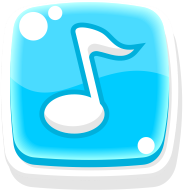
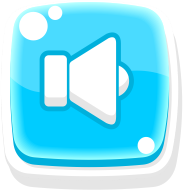
mute/unmute sound

diff --git a/src/scripts/scenes/pauseScene.ts b/src/scripts/scenes/pauseScene.ts
@@ -1,6 +1,9 @@
+import BackgroundParallax from '../ui/backgroundParallax'
 import { ButtonBig } from '../ui/buttonBig'
 import { ButtonSmall } from '../ui/buttonSmall'
-import { BUTTON, BUTTON_PREFIX, FONTS } from '../utils/constants'
+import { changeSoundState } from '../utils/audioUtil'
+import { BUTTON, BUTTON_PREFIX, BUTTON_PREFIX_EXTRA, FONTS } from '../utils/constants'
+import { isSoundEnabled, setSoundEnabled } from '../utils/fileStorage'
 
 export default class PauseScene extends Phaser.Scene {
   private config: PauseSceneConfig
@@ -16,6 +19,9 @@ export default class PauseScene extends Phaser.Scene {
   create() {
     const { width, height } = this.scale
     this.scene.bringToTop()
+
+    // TODO: blur the background on pause
+
     const frame = this.add.image(width * 0.5, height * 0.5, 'small-frame-window').setOrigin(0.5, 0.5)
 
     const textTitle = this.add
@@ -30,14 +36,30 @@ export default class PauseScene extends Phaser.Scene {
       onClick: this.config.onHome,
     }).setOrigin(0.5, 0.5)
 
-    new ButtonSmall(this, frame.x - frame.displayWidth * 0.5 + 300, frame.y - frame.displayHeight * 0.5 + 200, {
-      name: BUTTON.SOUND,
-      prefix: BUTTON_PREFIX.BLOCKED,
-      onClick: () => {
-        //TODO: implement toogle sound
-        console.log('sound click')
-      },
-    }).setOrigin(0.5, 0.5)
+    const soundEnabled = isSoundEnabled()
+    const soundButton = new ButtonSmall(
+      this,
+      frame.x - frame.displayWidth * 0.5 + 300,
+      frame.y - frame.displayHeight * 0.5 + 200,
+      {
+        name: BUTTON.SOUND,
+        prefix: soundEnabled ? BUTTON_PREFIX_EXTRA.INACTIVE : BUTTON_PREFIX.NORMAL,
+        onClick: () => {
+          const soundEnabled = isSoundEnabled()
+          const newSoundEnabled = !soundEnabled
+          setSoundEnabled(newSoundEnabled)
+          changeSoundState(this, newSoundEnabled)
+
+          if (newSoundEnabled) {
+            soundButton.changeTexture(BUTTON_PREFIX_EXTRA.INACTIVE)
+            this.sound.resumeAll()
+          } else {
+            soundButton.changeTexture(BUTTON_PREFIX.NORMAL)
+            this.sound.pauseAll()
+          }
+        },
+      }
+    ).setOrigin(0.5, 0.5)
 
     new ButtonBig(this, frame.x - 5, frame.y - frame.displayHeight * 0.5 + 350, {
       scale: {

diff --git a/src/scripts/scenes/preloadScene.ts b/src/scripts/scenes/preloadScene.ts
@@ -1,5 +1,7 @@
 import ProgressBar from '../ui/progressBar'
-import { BUTTON, BUTTON_PREFIX, FONTS, SOUNDS, SPRITE_NAME } from '../utils/constants'
+import { changeSoundState } from '../utils/audioUtil'
+import { BUTTON, BUTTON_PREFIX, BUTTON_PREFIX_EXTRA, FONTS, SOUNDS, SPRITE_NAME } from '../utils/constants'
+import { isSoundEnabled } from '../utils/fileStorage'
 
 export default class PreloadScene extends Phaser.Scene {
   progressBar: ProgressBar
@@ -48,7 +50,7 @@ export default class PreloadScene extends Phaser.Scene {
     this.load.audio(SOUNDS.WRONG_BOX, 'assets/audio/350984__cabled-mess__lose-c-03.mp3')
     this.load.audio(SOUNDS.WALKING, 'assets/audio/430708_juandamb_running.mp3')
     //buttons
-    this.loadImageStates()
+    this.loadImageButtons()
 
     //TODO: add credits
     /*
@@ -61,13 +63,14 @@ export default class PreloadScene extends Phaser.Scene {
     this.loadAssetsProgress()
   }
 
-  loadImageStates() {
+  loadImageButtons() {
     Object.keys(BUTTON).forEach((key) => {
       Object.keys(BUTTON_PREFIX).forEach((prefix) => {
         const buttonKey = `${BUTTON[key]}-${BUTTON_PREFIX[prefix]}`
         this.load.image(buttonKey, `assets/img/${buttonKey}.png`)
       })
     })
+    this.load.image(`${BUTTON.SOUND}-${BUTTON_PREFIX_EXTRA.INACTIVE}`, `assets/img/${BUTTON.SOUND}-${BUTTON_PREFIX_EXTRA.INACTIVE}.png`)
   }
 
   loadAssetsProgress = () => {
@@ -82,5 +85,7 @@ export default class PreloadScene extends Phaser.Scene {
     })
   }
 
-  create() {}
+  create() {
+    changeSoundState(this, isSoundEnabled())
+  }
 }

diff --git a/typings/custom.d.ts b/typings/custom.d.ts
@@ -1,38 +1,40 @@
-
-declare interface ObjectPosition extends TilePosition{
-  x: number; y: number
+declare interface ObjectPosition extends TilePosition {
+  x: number
+  y: number
 }
 
 declare interface TilePosition {
-  row: number, col: number
+  row: number
+  col: number
 }
 
 declare interface ButtonConfig {
   text?: {
-    title?: string,
-    fontSize?: string,
+    title?: string
+    fontSize?: string
     padding?: {
-      x?: number,
+      x?: number
       y?: number
     }
-  },
+  }
   name?: import('../src/scripts/utils/constants').BUTTON
-  prefix?:import('../src/scripts/utils/constants').BUTTON_PREFIX
+  prefix?: import('../src/scripts/utils/constants').BUTTON_PREFIX | import('../src/scripts/utils/constants').BUTTON_PREFIX_EXTRA
   scale?: {
     x: number
     y: number
-  },
+  }
   visible?: boolean
   onClick: () => void
 }
 
 declare interface FileStorageConfig {
-    tutorialMode: boolean,
-    levels: Array<LevelFileStorageConfig>
+  sound: boolean,
+  tutorialMode: boolean
+  levels: Array<LevelFileStorageConfig>
 }
 
 declare interface LevelFileStorageConfig {
-  level: number,
+  level: number
   stars: number
 }
 

diff --git a/src/scripts/utils/audioUtil.ts b/src/scripts/utils/audioUtil.ts
@@ -1,4 +1,4 @@
-import { SOUNDS } from "./constants"
+import { SOUNDS } from './constants'
 
 export const playSound = (scene: Phaser.Scene, audio: Phaser.Sound.BaseSound) => {
   if (!scene.sound.locked) {
@@ -10,6 +10,20 @@ export const playSound = (scene: Phaser.Scene, audio: Phaser.Sound.BaseSound) =>
   }
 }
 
-export const getOrAddAudio = (scene: Phaser.Scene, key: SOUNDS, config?: Phaser.Types.Sound.SoundConfig): Phaser.Sound.BaseSound => {
-    return scene.sound.get(key) || scene.sound.add(key, config)
+export const getOrAddAudio = (
+  scene: Phaser.Scene,
+  key: SOUNDS,
+  config?: Phaser.Types.Sound.SoundConfig
+): Phaser.Sound.BaseSound => {
+  return scene.sound.get(key) || scene.sound.add(key, config)
+}
+
+export const changeSoundState = (scene: Phaser.Scene, soundEnabled: boolean) => {
+  if (!scene.sound.locked) {
+    scene.sound.mute = !soundEnabled
+  } else {
+    scene.sound.once(Phaser.Sound.Events.UNLOCKED, () => {
+      scene.sound.mute = !soundEnabled
+    })
+  }
 }

diff --git a/src/scripts/ui/buttonSmall.ts b/src/scripts/ui/buttonSmall.ts
@@ -1,12 +1,14 @@
 import { getOrAddAudio, playSound } from '../utils/audioUtil'
-import { BUTTON_PREFIX, FONTS, SOUNDS } from '../utils/constants'
+import { BUTTON_PREFIX, BUTTON_PREFIX_EXTRA, FONTS, SOUNDS } from '../utils/constants'
 
 export class ButtonSmall extends Phaser.GameObjects.Sprite {
   group: Phaser.Physics.Arcade.StaticGroup
+  config: ButtonConfig
 
   constructor(scene: Phaser.Scene, x: number, y: number, config: ButtonConfig) {
     super(scene, x, y, `${config.name}-${config.prefix || BUTTON_PREFIX.NORMAL}`)
     scene.add.existing(this)
+    this.config = config
     this.group = this.scene.physics.add.staticGroup()
     this.group.add(this)
 
@@ -37,5 +39,9 @@ export class ButtonSmall extends Phaser.GameObjects.Sprite {
       playSound(scene, clickAudio)
       config.onClick()
     })
+  }
+
+  changeTexture(prefix: BUTTON_PREFIX | BUTTON_PREFIX_EXTRA) {
+    this.setTexture(`${this.config.name}-${prefix}`)
   }
 }

diff --git a/src/scripts/utils/fileStorage.ts b/src/scripts/utils/fileStorage.ts
@@ -1,6 +1,7 @@
 const FILE_STORAGE_KEY = 'fileStorage'
 const initialFileStorageConfig: FileStorageConfig = {
   tutorialMode: true,
+  sound: true,
   levels: [
     {
       level: 1,
@@ -27,6 +28,17 @@ export const setTutorialMode = (istutorialMode: boolean) => {
     ...getFileStorageConfig(),
     tutorialMode: istutorialMode,
   })
+}
+
+export const setSoundEnabled = (isSoundEnabled: boolean) => {
+  setFileStorageConfig({
+    ...getFileStorageConfig(),
+    sound: isSoundEnabled,
+  })
+}
+
+export const isSoundEnabled = (): boolean => {
+  return getFileStorageConfig().sound
 }
 
 export const setLevel = (level: LevelFileStorageConfig) => {

diff --git a/src/scripts/utils/constants.ts b/src/scripts/utils/constants.ts
@@ -99,6 +99,10 @@ export enum BUTTON_PREFIX {
   NORMAL = 'normal',
 }
 
+export enum BUTTON_PREFIX_EXTRA {
+  INACTIVE = 'inactive'
+}
+
 export enum ANIMAL_SKINS {
   BEAR = 'bear.png',
   BUFFALO = 'buffalo.png',
